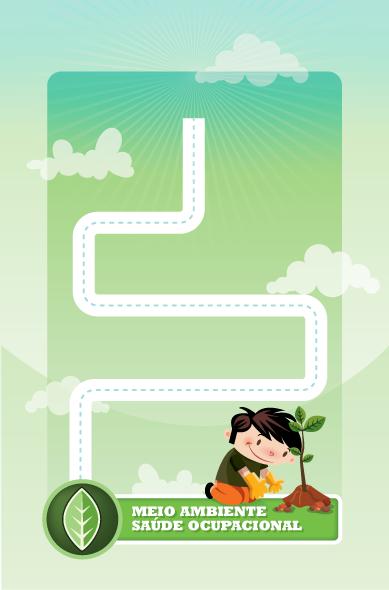
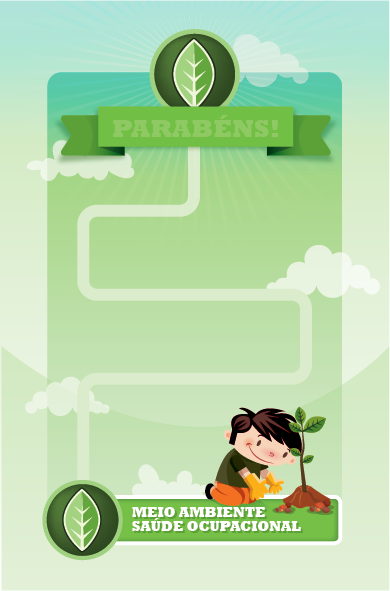
Imagens

diff --git a/css/capitulos.css b/css/capitulos.css
@@ -1,6 +1,6 @@
 /*CAPITULO 1*/
 #btn_exercicio_1{
-    background:url(../img/5_fundo.png) no-repeat;
+    background:url(../img/1_fundo.png) no-repeat;
     height:100%;
 }
 
@@ -8,14 +8,14 @@
     position: absolute;
     width: 100%;
     z-index:1;
-    background:url(../img/5_parabens.png) no-repeat;
+    background:url(../img/1_fundo.png) no-repeat;
     height:100%;
 }
 #btn_exercicio_1_parabens_brilho{
     position: absolute;
     width: 100%;
     z-index:2;
-    background:url(../img/5_parabens_comp.png) no-repeat;
+    background:url(../img/1_parabens_comp.png) no-repeat;
     height:100%;
     display:none;
 }
@@ -23,7 +23,7 @@
 
 /*CAPITULO 2*/
 #btn_exercicio_2{
-    background:url(../img/5_fundo.png) no-repeat;
+    background:url(../img/2_fundo.png) no-repeat;
     height:100%;
 }
 
@@ -31,14 +31,14 @@
     position: absolute;
     width: 100%;
     z-index:1;
-    background:url(../img/5_parabens.png) no-repeat;
+    background:url(../img/2_fundo.png) no-repeat;
     height:100%;
 }
 #btn_exercicio_2_parabens_brilho{
     position: absolute;
     width: 100%;
     z-index:2;
-    background:url(../img/5_parabens_comp.png) no-repeat;
+    background:url(../img/2_parabens_comp.png) no-repeat;
     height:100%;
     display:none;
 }
@@ -46,7 +46,7 @@
 
 /*CAPITULO 3*/
 #btn_exercicio_3{
-    background:url(../img/5_fundo.png) no-repeat;
+    background:url(../img/3_fundo.png) no-repeat;
     height:100%;
 }
 
@@ -54,14 +54,14 @@
     position: absolute;
     width: 100%;
     z-index:1;
-    background:url(../img/5_parabens.png) no-repeat;
+    background:url(../img/3_fundo.png) no-repeat;
     height:100%;
 }
 #btn_exercicio_3_parabens_brilho{
     position: absolute;
     width: 100%;
     z-index:2;
-    background:url(../img/5_parabens_comp.png) no-repeat;
+    background:url(../img/3_parabens_comp.png) no-repeat;
     height:100%;
     display:none;
 }
@@ -69,7 +69,7 @@
 
 /*CAPITULO 4*/
 #btn_exercicio_4{
-    background:url(../img/5_fundo.png) no-repeat;
+    background:url(../img/4_fundo.png) no-repeat;
     height:100%;
 }
 
@@ -77,14 +77,14 @@
     position: absolute;
     width: 100%;
     z-index:1;
-    background:url(../img/5_parabens.png) no-repeat;
+    background:url(../img/4_fundo.png) no-repeat;
     height:100%;
 }
 #btn_exercicio_4_parabens_brilho{
     position: absolute;
     width: 100%;
     z-index:2;
-    background:url(../img/5_parabens_comp.png) no-repeat;
+    background:url(../img/4_parabens_comp.png) no-repeat;
     height:100%;
     display:none;
 }
@@ -100,7 +100,7 @@
 	position: absolute;
 	width: 100%;
 	z-index:1;
-	background:url(../img/5_parabens.png) no-repeat;
+	background:url(../img/5_fundo.png) no-repeat;
 	height:100%;
 }
 #btn_exercicio_5_parabens_brilho{
@@ -152,7 +152,7 @@
 }
 
 /*Objetos com 14 atividades*/
-.obj_icone14_1{   
+.obj_icone14_1{
 	bottom: 120px;
 	left: 65px;
 }

diff --git a/template/Template.php b/template/Template.php
@@ -1,6 +1,6 @@
 <?php
 if(!isset($_SESSION['PATH_SYS'])){
-   session_start();  
+   session_start();
 }
 
 $path = $_SESSION['PATH_SYS'];
@@ -15,13 +15,13 @@ include_once($path['controller'].'ExercicioController.php');
  */
 class Template {
 
-    public static $path;    
+    public static $path;
 
     function __construct() {
         self::$path = $_SESSION['URL_SYS'];
     }
 
-    //Topo Site	
+    //Topo Site
     public function topoSite(){
         $menuControler = new MenuController();
 		//$usuarioController = new UsuarioController();
@@ -33,7 +33,7 @@ class Template {
 		$menuLista = $menuControler->selectTipoPerfil('Botao',$usrLogado['perfil_id']);
 		//$usuario = $usuarioController->select();
         echo'<div class="col-lg-12" id="topo">
-                <div class="row" id="row_logout">                    
+                <div class="row" id="row_logout">
                     <div class="col-xs-12">
                         <button class="navbar-toggle collapsed" type="button" data-toggle="collapse" data-target="#bs-navbar" aria-controls="bs-navbar" aria-expanded="false">
                             <span class="sr-only">Toggle navigation</span>
@@ -52,12 +52,12 @@ class Template {
                         </div>
 						</div>
 					</div>
-					<div class="row">                	
+					<div class="row">
 						<div class="col-xs-12 col-md-4" id="logo">
 							<a href="'.$usrLogado['url'].'" class="logo_container">
                                 <div class="logotipo"></div>
                             </a>
-						</div>  
+						</div>
                         <div class="col-xs-12 col-md-8">
                             <nav id="bs-navbar" class="navbar-collapse collapse" aria-expanded="false" style="height: 1px;">
                         	    <div id="menu_container" class="'.($usrLogado['perfil_id']==1?'menu_container_aluno':'menu_container_normal').'">
@@ -67,14 +67,14 @@ class Template {
                                             echo '<li class="mn_li" id="mn_livros_sub">';
                                             if ($usrLogado['perfil_id'] == 1 && $menuId[0]=='exercicios'){
 
-                                                $usuarioVariavelController = new UsuarioVariavelController();   
+                                                $usuarioVariavelController = new UsuarioVariavelController();
                                                 $exercicioController = new ExercicioController();
 
                                                 $logado = unserialize($_SESSION['USR']);
                                                 $userVariavel = $usuarioVariavelController->selectByIdUsuario($logado['id']);
-                                                $exercicios = $exercicioController->selectAllExercicioBySerieCapituloLiberado($userVariavel->getUsv_ano_letivo(), $logado['escola'],"");        
+                                                $exercicios = $exercicioController->selectAllExercicioBySerieCapituloLiberado($userVariavel->getUsv_ano_letivo(), $logado['escola'],"");
                                                 $capitulos = Array();
-                                                
+
                                                 foreach ($exercicios as $i => $value){
                                                     if(!in_array($value['exe_capitulo'],$capitulos)){
                                                         $capitulos[$i] = $value['exe_capitulo'];
@@ -103,7 +103,7 @@ class Template {
 
                                             }elseif($usrLogado['perfil_id'] != 1 && $menuId[0]=='livros'){
                                                   echo'<a href="#" id="mn_'.$menuId[0].'" class="mn_a_menu"></a>
-                                                        <ul id="sbm_exercicios">
+                                                        <ul id="sbm_exercicios" style="width: 85px; margin: 6px 19px;">
                                                             <li class="sub_a">
                                                                 <a href="livros.php?ano_1">1º Ano</a>
                                                             </li>
@@ -124,11 +124,11 @@ class Template {
                                                  echo'<a href="'.$menu->getBtn_menu().'" id="mn_'.$menuId[0].'" class="mn_a_menu"></a>';
                                             }
                                             echo'</li>';
-                                        }                
+                                        }
                                     echo'</ul>
 	            				</div>
 							</nav>
-                        </div>               
+                        </div>
 					</div>
 			   </div>';
     }
@@ -169,9 +169,9 @@ class Template {
                 $corBotao = 'btn_verde';
                 $onClick = 'onclick="redireciona(\'areaAluno.php\')"';
                 break;
-            }   		
+            }
 		}
-            
+
 		echo '<div class="modal fade exibirMsg in" id="myModal" role="dialog">
 				<div class="modal-dialog modal-sm">
 					<div class="'.$corBorda.'">
